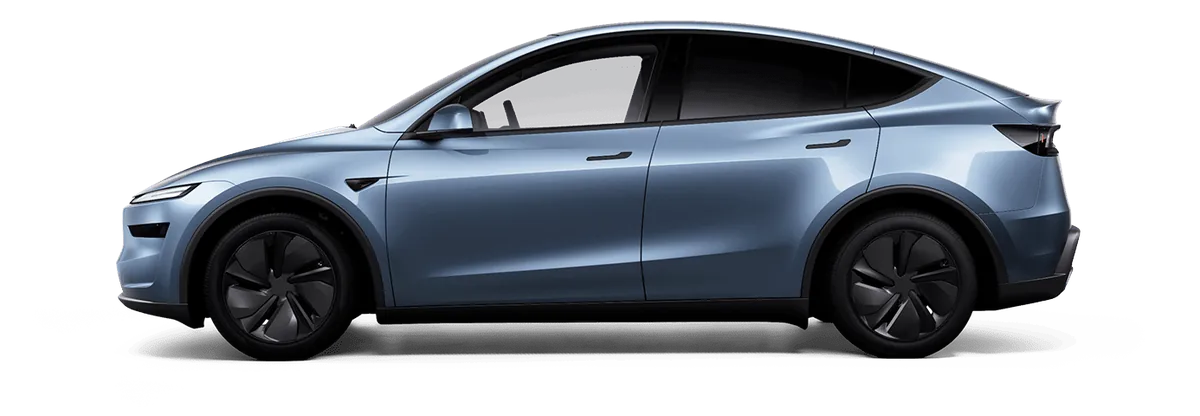
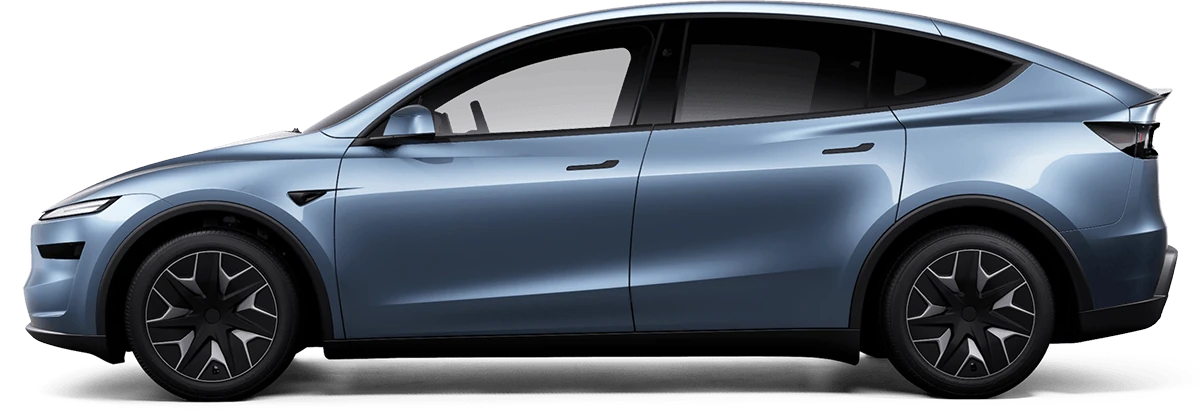
Add files via upload

diff --git a/car.js b/car.js
@@ -1,25 +1,24 @@
-// Photo car view. Images: Tesla official configurator renders (static-assets.tesla.com compositor,
-// new Model Y "Juniper", view STUD_SIDE, 19" wheels) — no Model Y L render is offered, so the
-// standard-wheelbase new Model Y side view is used. Car faces LEFT (front on the left).
+// Photo car view. Images: Tesla official configurator renders of the Model Y L (6-seat, China/Korea),
+// static-assets.tesla.cn compositor, context=design_studio_2, model=my, view=STUD_SIDE,
+// options $MTY87 (Model Y L) + $STY6S (6 seats) + $WY19L (19" Y L wheels) + paint, cropped 1200x416.
+// Renders natively face LEFT (front on the left). Wheels are cut from the same photo and rotated.
 const PAINTS = [
   { id: 'stealth', code: 'PN01', name: 'Stealth Grey', ko: '스텔스 그레이', hex: '#5b5e63' },
   { id: 'pearl', code: 'PPSW', name: 'Pearl White Multi-Coat', ko: '펄 화이트 멀티 코트', hex: '#e9e9e6' },
   { id: 'black', code: 'PX02', name: 'Diamond Black', ko: '다이아몬드 블랙', hex: '#141518' },
   { id: 'glacier', code: 'PB01', name: 'Glacier Blue', ko: '글레이셔 블루', hex: '#8fa6bb' },
-  { id: 'marine', code: 'PB02', name: 'Marine Blue', ko: '마린 블루', hex: '#1d3557' },
   { id: 'ultrared', code: 'PR01', name: 'Ultra Red', ko: '울트라 레드', hex: '#a3141c' },
-  { id: 'quicksilver', code: 'PN00', name: 'Quicksilver', ko: '퀵실버', hex: '#a9adb1' },
-  { id: 'deepblue', code: 'PPSB', name: 'Deep Blue Metallic', ko: '딥 블루 메탈릭', hex: '#1f3f8f' },
+  { id: 'gold', code: 'PN03', name: 'Starlight Gold', ko: '스타라이트 골드', hex: '#b9ab94' },
 ];
-// Geometry of the 1200x416 photos (all paints share it): wheel centres + rim radius in px.
-const CAR_W = 1200, CAR_H = 416, WHEELS = [{ x: 279.6, y: 285.7 }, { x: 903.9, y: 284.0 }], RIM_R = 56;
+// Geometry of the 1200x416 photos (all paints share it): wheel centres + overlay radius in px.
+const CAR_W = 1200, CAR_H = 416, WHEELS = [{ x: 214.0, y: 308.5 }, { x: 964.9, y: 307.9 }], RIM_R = 90;
 
 class CarView {
   constructor(el) {
     const pct = v => (v * 100).toFixed(4) + '%';
     const d = RIM_R * 2;
     el.innerHTML = `<div class="car-photo" style="aspect-ratio:${CAR_W}/${CAR_H}">
-      <img class="car-body" alt="Model Y L" src="img/car/${PAINTS[0].id}.webp">
+      <img class="car-body" alt="Tesla Model Y L" src="img/car/${PAINTS[0].id}.webp">
       ${WHEELS.map(w => `<div class="car-wheel" style="left:${pct((w.x - RIM_R) / CAR_W)};top:${pct((w.y - RIM_R) / CAR_H)};width:${pct(d / CAR_W)}">
         <img alt="" src="img/car/${PAINTS[0].id}.webp" style="width:${pct(CAR_W / d)};left:${pct(-(w.x - RIM_R) / d)};top:${pct(-(w.y - RIM_R) / d)}"></div>`).join('')}
     </div>`;

diff --git a/sw.js b/sw.js
@@ -1,7 +1,7 @@
-const CACHE = 'walloo-road-v2';
+const CACHE = 'walloo-road-v3';
 const SHELL = ['./', './index.html', './styles.css', './app.js', './geo.js', './sources.js',
   './manifest.webmanifest', './car.js', './img/car/stealth.webp', './img/car/pearl.webp', './img/car/black.webp', './img/car/glacier.webp',
-  './img/car/marine.webp', './img/car/ultrared.webp', './img/car/quicksilver.webp', './img/car/deepblue.webp', './data/cameras.json', './data/demo_route.json',
+  './img/car/ultrared.webp', './img/car/gold.webp', './data/cameras.json', './data/demo_route.json',
   './icons/icon-192.png', './icons/icon-512.png', './icons/apple-touch-icon.png'];
 self.addEventListener('install', e => { e.waitUntil(caches.open(CACHE).then(c => c.addAll(SHELL))); self.skipWaiting(); });
 self.addEventListener('activate', e => {

diff --git a/index.html b/index.html
@@ -11,7 +11,7 @@
 <link rel="manifest" href="manifest.webmanifest">
 <link rel="apple-touch-icon" href="icons/apple-touch-icon.png">
 <link rel="icon" href="icons/icon-192.png">
-<link rel="stylesheet" href="styles.css?v=2">
+<link rel="stylesheet" href="styles.css?v=3">
 <title>Walloo Road</title>
 </head>
 <body>
@@ -82,7 +82,7 @@
 </dialog>
 
 <script src="geo.js"></script>
-<script src="car.js?v=2"></script>
+<script src="car.js?v=3"></script>
 <script src="sources.js"></script>
 <script src="app.js"></script>
 </body>
